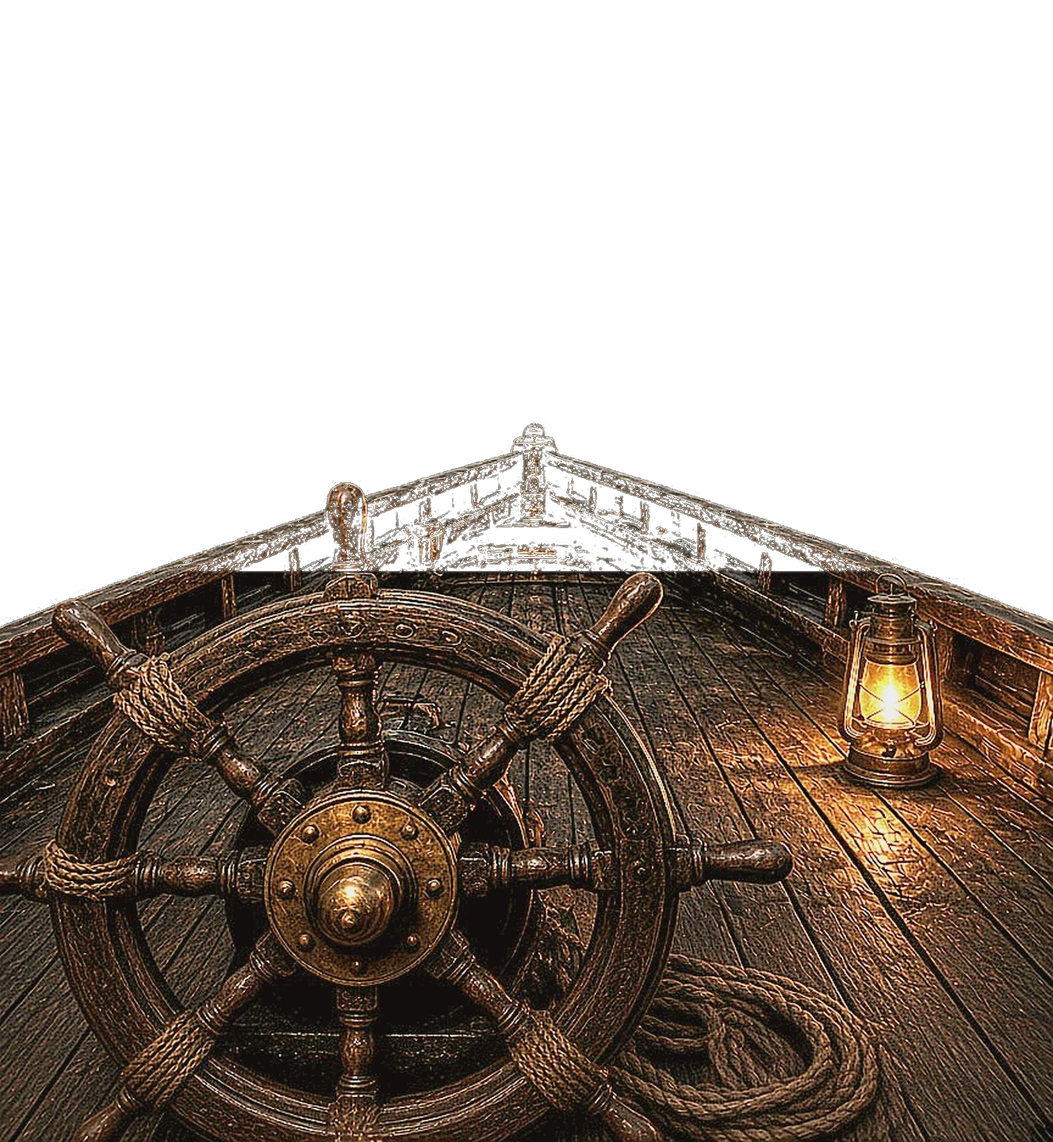
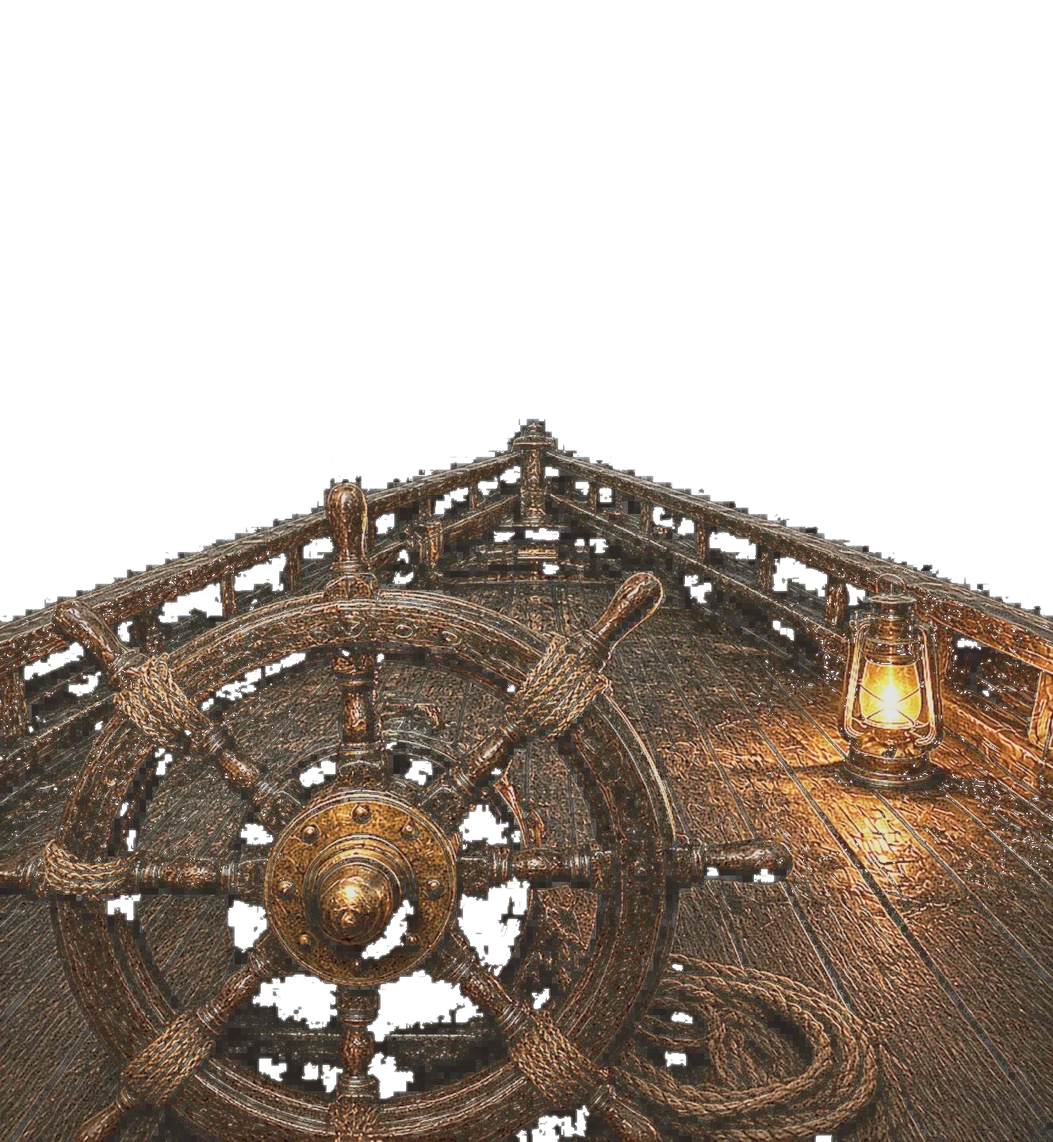
Ship: restore night sea past bow; film timber pass
Root cause: deck plate kept opaque near-black over the ocean band
(and clear void sat above the horizon), so scene.js water looked like
a black cutout. Flood-clear sea void into ocean latitudes, kill black
fringe, lift night-sea readability + moon trail, nudge plate sit so
water shows past the bow. Cache-bust scene/ship ?v=water8.

Changed region(s): [[0.0, 0.3438, 1.0, 1.0]]

diff --git a/projects.html b/projects.html
@@ -13,5 +13,5 @@
 <div class="grid"><article class="proj glass feat" data-cat="Education"><a class="shot" href="https://inteloasis.com" target="_blank" rel="noopener" tabindex="-1"><img src="assets/shots/inteloasis.webp" alt="Screenshot of IntelOasis" loading="lazy" width="720" height="450"></a><div class="pb"><div class="ph2"><h3>IntelOasis</h3><span class="tag">Education</span></div><p><strong>Every problem has a thousand solutions. IntelOasis is where Charles keeps them.</strong> It is a living library of ideas, books, software, clubs, and traditions, and it is the roof over everything else here. <strong>It holds the vision. The products below put it into practice.</strong></p><ul class="stack"><li>React</li><li>Vite</li><li>Tailwind</li></ul><div class="links"><a class="btn" href="https://inteloasis.com" target="_blank" rel="noopener">Visit ↗</a><a class="btn ghost" href="https://github.com/charlesanthonyleone/intel-oasis" target="_blank" rel="noopener">GitHub ↗</a></div></div></article><article class="proj glass feat" data-cat="Games"><a class="shot" href="https://scavengia.com" target="_blank" rel="noopener" tabindex="-1"><img src="assets/shots/scavengia.webp" alt="Screenshot of Scavengia" loading="lazy" width="720" height="450"></a><div class="pb"><div class="ph2"><h3>Scavengia</h3><span class="tag">Games</span></div><p><strong>Scavengia is an AI-powered index of everything, and people build it by exploring the world.</strong> Players go out, open caches, and pay to explore. Each discovery adds real places, objects, images, lore, and rarity to a shared map of the planet. <strong>When everything has been found, the AI keeps digging.</strong> It surfaces the precedent: the history and the earlier finds behind each place. <strong>It connects people on opposite sides of the world</strong> through the same hunt. <strong>Ride-alongs fix two problems at once.</strong> Someone who is driving and can&#x27;t play takes along someone who can play but can&#x27;t move. The driver moves the game forward and the remote player gets to explore. <strong>Nobody is left out of the hunt.</strong></p><ul class="stack"><li>TypeScript</li><li>Capacitor Android</li></ul><div class="links"><a class="btn" href="https://scavengia.com" target="_blank" rel="noopener">Visit ↗</a></div></div></article><article class="proj glass feat" data-cat="Civic"><a class="shot" href="https://recordoflaw.com" target="_blank" rel="noopener" tabindex="-1"><img src="assets/shots/recordoflaw.webp" alt="Screenshot of RecordOfLaw" loading="lazy" width="720" height="450"></a><div class="pb"><div class="ph2"><h3>RecordOfLaw</h3><span class="tag">Civic/Politics</span></div><p><strong>Who made the law, when, and how.</strong> RecordOfLaw records offices, officeholders, and legal changes. <strong>Every entry is dated, sourced, and cross-linked.</strong> It starts with FDR and the New Deal, and the build checks its data before it compiles. <strong>The 2026 Midterm Tracker is live.</strong></p><ul class="stack"><li>Python pipeline</li><li>Vite + TS</li></ul><div class="links"><a class="btn" href="https://recordoflaw.com" target="_blank" rel="noopener">Visit ↗</a><a class="btn ghost" href="https://recordoflaw.com/midterms/" target="_blank" rel="noopener">2026 Midterm Tracker ↗</a></div></div></article><article class="proj glass" data-cat="Education"><a class="shot" href="https://leoneuniversity.org" target="_blank" rel="noopener" tabindex="-1"><img src="assets/shots/leone-university.webp" alt="Screenshot of Leone University" loading="lazy" width="720" height="450"></a><div class="pb"><div class="ph2"><h3>Leone University</h3><span class="tag">Education</span></div><p><strong>A think tank where ideas are kept as records.</strong> It started as a prototype on the Base44 AI app builder. <strong>Charles rebuilt it as a standalone React app</strong> that deploys automatically through GitHub Actions.</p><ul class="stack"><li>Vite</li><li>React</li></ul><div class="links"><a class="btn" href="https://leoneuniversity.org" target="_blank" rel="noopener">Visit ↗</a><a class="btn ghost" href="https://github.com/charlesanthonyleone/leone-university" target="_blank" rel="noopener">GitHub ↗</a></div></div></article><article class="proj glass" data-cat="Education"><a class="shot" href="https://library.leoneuniversity.org" target="_blank" rel="noopener" tabindex="-1"><img src="assets/shots/leone-library.webp" alt="Screenshot of Leone Library" loading="lazy" width="720" height="450"></a><div class="pb"><div class="ph2"><h3>Leone Library</h3><span class="tag">Education</span></div><p><strong>Read, translate, remix, and publish the public-domain classics.</strong> Its catalogue is fed by ingestion pipelines from Project Gutenberg and LibriVox. <strong>It&#x27;s a free library meant to be built on.</strong></p><ul class="stack"><li>TypeScript</li></ul><div class="links"><a class="btn" href="https://library.leoneuniversity.org" target="_blank" rel="noopener">Visit ↗</a><a class="btn ghost" href="https://github.com/charlesanthonyleone/leonelibrary" target="_blank" rel="noopener">GitHub ↗</a></div></div></article><article class="proj glass" data-cat="Community"><a class="shot" href="https://charlesanthonyleone.github.io/leoneguard-stats/" target="_blank" rel="noopener" tabindex="-1"><img src="assets/shots/leoneguard-stats.webp" alt="Screenshot of LeoneGuard" loading="lazy" width="720" height="450"></a><div class="pb"><div class="ph2"><h3>LeoneGuard</h3><span class="tag">Community</span></div><p><strong>Moderation that can tell venting from attacking.</strong> At its core is DramaScreen, a low-cost harassment detector that ignores banter and acts on targeted personal attacks. <strong>The public stats page shows only totals, with no names and no messages.</strong></p><ul class="stack"><li>TypeScript</li><li>Docker</li><li>Postgres</li><li>Redis</li><li>Local LLM</li></ul><div class="links"><a class="btn" href="https://charlesanthonyleone.github.io/leoneguard-stats/" target="_blank" rel="noopener">Visit ↗</a><a class="btn ghost" href="https://charlesanthonyleone.github.io/leoneguard-stats/" target="_blank" rel="noopener">Public stats ↗</a></div></div></article><article class="proj glass" data-cat="Community"><a class="shot" href="https://xatmarket.com" target="_blank" rel="noopener" tabindex="-1"><img src="assets/shots/xatmarket.webp" alt="Screenshot of XatMarket" loading="lazy" width="720" height="450"></a><div class="pb"><div class="ph2"><h3>XatMarket</h3><span class="tag">Community</span></div><p><strong>Services, staff, and ideas for xat communities.</strong> XatMarket is the home base for the xat chat community, and <strong>WarMap and XatCast launch from it.</strong></p><ul class="stack"><li>JavaScript</li></ul><div class="links"><a class="btn" href="https://xatmarket.com" target="_blank" rel="noopener">Visit ↗</a></div></div></article><article class="proj glass" data-cat="Community"><a class="shot" href="https://tv.xatmarket.com" target="_blank" rel="noopener" tabindex="-1"><img src="assets/shots/xatcast.webp" alt="Screenshot of XatCast" loading="lazy" width="720" height="450"></a><div class="pb"><div class="ph2"><h3>XatCast</h3><span class="tag">Community</span></div><p><strong>A broadcast network that airs only work the public is free to use.</strong> It runs always-on stations (XatArt, XatWar, XatSports, XatMusic) fed from the Met, the Art Institute of Chicago, Wikimedia Commons, and the Internet Archive. <strong>The license and attribution are recorded for every item.</strong> A shared broadcast clock means <strong>every viewer sees the same thing at the same second.</strong></p><ul class="stack"><li>TypeScript</li><li>Live</li></ul><div class="links"><a class="btn" href="https://tv.xatmarket.com" target="_blank" rel="noopener">Visit ↗</a></div></div></article><article class="proj glass" data-cat="Civic"><a class="shot" href="https://maps.xatmarket.com" target="_blank" rel="noopener" tabindex="-1"><img src="assets/shots/xatmaps.webp" alt="Screenshot of XatMaps · WarMap" loading="lazy" width="720" height="450"></a><div class="pb"><div class="ph2"><h3>XatMaps · WarMap</h3><span class="tag">Civic/Politics</span></div><p><strong>A live 3D night globe of world conflict. Free, open source, with no accounts, no paywall, and no tracking.</strong> It combines UCDP, GDELT (labeled &quot;auto-coded, unverified&quot;), NASA FIRMS heat detections, and Wikipedia control maps. <strong>Every event shows its source and a confidence label.</strong> It also has a daily brief, RSS feeds, and an embed mode.</p><ul class="stack"><li>3D globe</li><li>Open data</li></ul><div class="links"><a class="btn" href="https://maps.xatmarket.com" target="_blank" rel="noopener">Visit ↗</a></div></div></article><article class="proj glass" data-cat="Games"><a class="shot" href="https://blesshalo.com" target="_blank" rel="noopener" tabindex="-1"><img src="assets/shots/blesshalo.webp" alt="Screenshot of BlessHalo" loading="lazy" width="720" height="450"></a><div class="pb"><div class="ph2"><h3>BlessHalo</h3><span class="tag">Games</span></div><p><strong>UNSC : Bless is a private military Halo company, run like a real organization.</strong> It has houses, a charter, insignia, roles and medals, a Pro-Am series, mentorship, a Cadet Track, and a field manual. <strong>It&#x27;s a structure for leading a community.</strong></p><ul class="stack"></ul><div class="links"><a class="btn" href="https://blesshalo.com" target="_blank" rel="noopener">Visit ↗</a></div></div></article><article class="proj glass" data-cat="Games"><div class="shot ph"><span>Private · no public page</span></div><div class="pb"><div class="ph2"><h3>WoW AzerothCore server + xat in-game UI</h3><span class="tag">Games</span></div><p>A World of Warcraft 3.3.5 private server on AzerothCore, with a custom FrameXML Lua UI and native DLL proxy hooks (d3d9, dinput8, MinHook) that bring xat chat into the game client. The server also runs a local Qwen2.5-3B model. In progress.</p><ul class="stack"><li>C/C++</li><li>Lua</li><li>MySQL</li><li>Local LLM</li></ul><div class="links"></div></div></article><article class="proj glass" data-cat="Community"><a class="shot" href="https://lowdro.com" target="_blank" rel="noopener" tabindex="-1"><img src="assets/shots/lowdro.webp" alt="Screenshot of LowDro" loading="lazy" width="720" height="450"></a><div class="pb"><div class="ph2"><h3>LowDro</h3><span class="tag">Community</span></div><p><strong>A members-only, age-gated (21+) storefront for hemp-derived products, plus the security tool that protects it.</strong> Charles built lowdro-ir alongside the store. It is an incident-response analyzer that reads Supabase, Cloudflare, and Nginx logs and flags brute-force attempts, table enumeration, and misuse of privileged keys. <strong>He secures what he ships.</strong></p><ul class="stack"><li>Vite SPA</li><li>21+ age-gated</li></ul><div class="links"><a class="btn" href="https://lowdro.com" target="_blank" rel="noopener">Visit ↗</a></div></div></article><article class="proj glass" data-cat="Tools/AI"><a class="shot" href="https://charlesanthonyleone.github.io/tapback/" target="_blank" rel="noopener" tabindex="-1"><img src="assets/shots/tapback.webp" alt="Screenshot of Tapback" loading="lazy" width="720" height="450"></a><div class="pb"><div class="ph2"><h3>Tapback</h3><span class="tag">Tools/AI</span></div><p>“Your tap gets a comeback.” A sharp marketing site for a product idea — static multi-page, Python-built, shipped to GitHub Pages.</p><ul class="stack"><li>Static</li><li>Python build</li></ul><div class="links"><a class="btn" href="https://charlesanthonyleone.github.io/tapback/" target="_blank" rel="noopener">Visit ↗</a></div></div></article><article class="proj glass" data-cat="Tools/AI"><a class="shot" href="https://charlesanthonyleone.github.io/remote-robotics/" target="_blank" rel="noopener" tabindex="-1"><img src="assets/shots/remote-robotics.webp" alt="Screenshot of Remote Robotics" loading="lazy" width="720" height="450"></a><div class="pb"><div class="ph2"><h3>Remote Robotics</h3><span class="tag">Tools/AI</span></div><p>Concept site for human-supervised robotics R&amp;D — framing the problem of keeping a person in the loop when machines act at a distance.</p><ul class="stack"><li>Static</li></ul><div class="links"><a class="btn" href="https://charlesanthonyleone.github.io/remote-robotics/" target="_blank" rel="noopener">Visit ↗</a></div></div></article></div></section><footer class="foot"><p>© 2026 Charles Leone · <a href="https://github.com/charlesanthonyleone">github.com/charlesanthonyleone</a></p><p class="credit">Milky Way: <a href="https://www.eso.org/public/images/eso0932a/" rel="noopener">ESO/S. Brunier</a>, CC BY 4.0 · Moon: <a href="https://commons.wikimedia.org/wiki/File:FullMoon2010.jpg" rel="noopener">Gregory H. Revera</a>, CC BY-SA 3.0 · Ship: coherent photoreal helm plate + scene sky/ocean</p></footer></main>
 <div class="scene-set"><div id="scene-panel" class="scene-panel glass" role="dialog" aria-label="Scene settings" hidden><label><input type="checkbox" id="set-ocean"> Ocean animation</label><label><input type="checkbox" id="set-sky"> Star &amp; sky animation</label><label><input type="checkbox" id="set-rock"> Ship rocking &amp; lantern</label><p>Off shows a still frame. Defaults follow your system's reduced-motion setting.</p></div>
 <button id="gear" class="scene-gear glass" aria-expanded="false" aria-label="Scene settings" title="Scene settings"><svg viewBox="0 0 24 24" width="18" height="18" aria-hidden="true"><path fill="currentColor" d="M19.4 13a7.5 7.5 0 0 0 0-2l2-1.6-2-3.4-2.4 1a7 7 0 0 0-1.7-1L15 3.5h-4l-.4 2.5a7 7 0 0 0-1.7 1l-2.4-1-2 3.4L6.6 11a7.5 7.5 0 0 0 0 2l-2 1.6 2 3.4 2.4-1a7 7 0 0 0 1.7 1l.4 2.5h4l.4-2.5a7 7 0 0 0 1.7-1l2.4 1 2-3.4zM13 15.5a3.5 3.5 0 1 1 0-7 3.5 3.5 0 0 1 0 7z" transform="translate(-1 0)"/></svg></button></div>
-<script src="assets/scene.js" defer></script><script src="assets/ship.js?v=water1" defer></script><script src="assets/pages.js" defer></script>
+<script src="assets/scene.js?v=water8" defer></script><script src="assets/ship.js?v=water8" defer></script><script src="assets/pages.js" defer></script>
 </body></html>

diff --git a/index.html b/index.html
@@ -13,5 +13,5 @@
 <section class="doors"><a class="door glass" href="story.html"><span class="eyebrow">The log</span><b>My Story</b><span>In my own words — 12 min read</span></a><a class="door glass" href="projects.html"><span class="eyebrow">The work</span><b>Projects</b><span>14 things built and live</span></a></section><section class="featured"><div class="sec-h"><h2 class="sh">Flagship</h2><a class="hint" href="projects.html">All 14 projects →</a></div><div class="grid"><article class="proj glass feat" data-cat="Education"><a class="shot" href="https://inteloasis.com" target="_blank" rel="noopener" tabindex="-1"><img src="assets/shots/inteloasis.webp" alt="Screenshot of IntelOasis" loading="lazy" width="720" height="450"></a><div class="pb"><div class="ph2"><h3>IntelOasis</h3><span class="tag">Education</span></div><p><strong>Every problem has a thousand solutions. IntelOasis is where Charles keeps them.</strong> It is a living library of ideas, books, software, clubs, and traditions, and it is the roof over everything else here. <strong>It holds the vision. The products below put it into practice.</strong></p><ul class="stack"><li>React</li><li>Vite</li><li>Tailwind</li></ul><div class="links"><a class="btn" href="https://inteloasis.com" target="_blank" rel="noopener">Visit ↗</a><a class="btn ghost" href="https://github.com/charlesanthonyleone/intel-oasis" target="_blank" rel="noopener">GitHub ↗</a></div></div></article><article class="proj glass feat" data-cat="Games"><a class="shot" href="https://scavengia.com" target="_blank" rel="noopener" tabindex="-1"><img src="assets/shots/scavengia.webp" alt="Screenshot of Scavengia" loading="lazy" width="720" height="450"></a><div class="pb"><div class="ph2"><h3>Scavengia</h3><span class="tag">Games</span></div><p><strong>Scavengia is an AI-powered index of everything, and people build it by exploring the world.</strong> Players go out, open caches, and pay to explore. Each discovery adds real places, objects, images, lore, and rarity to a shared map of the planet. <strong>When everything has been found, the AI keeps digging.</strong> It surfaces the precedent: the history and the earlier finds behind each place. <strong>It connects people on opposite sides of the world</strong> through the same hunt. <strong>Ride-alongs fix two problems at once.</strong> Someone who is driving and can&#x27;t play takes along someone who can play but can&#x27;t move. The driver moves the game forward and the remote player gets to explore. <strong>Nobody is left out of the hunt.</strong></p><ul class="stack"><li>TypeScript</li><li>Capacitor Android</li></ul><div class="links"><a class="btn" href="https://scavengia.com" target="_blank" rel="noopener">Visit ↗</a></div></div></article><article class="proj glass feat" data-cat="Civic"><a class="shot" href="https://recordoflaw.com" target="_blank" rel="noopener" tabindex="-1"><img src="assets/shots/recordoflaw.webp" alt="Screenshot of RecordOfLaw" loading="lazy" width="720" height="450"></a><div class="pb"><div class="ph2"><h3>RecordOfLaw</h3><span class="tag">Civic/Politics</span></div><p><strong>Who made the law, when, and how.</strong> RecordOfLaw records offices, officeholders, and legal changes. <strong>Every entry is dated, sourced, and cross-linked.</strong> It starts with FDR and the New Deal, and the build checks its data before it compiles. <strong>The 2026 Midterm Tracker is live.</strong></p><ul class="stack"><li>Python pipeline</li><li>Vite + TS</li></ul><div class="links"><a class="btn" href="https://recordoflaw.com" target="_blank" rel="noopener">Visit ↗</a><a class="btn ghost" href="https://recordoflaw.com/midterms/" target="_blank" rel="noopener">2026 Midterm Tracker ↗</a></div></div></article></div></section><footer class="foot"><p>© 2026 Charles Leone · <a href="https://github.com/charlesanthonyleone">github.com/charlesanthonyleone</a></p><p class="credit">Milky Way: <a href="https://www.eso.org/public/images/eso0932a/" rel="noopener">ESO/S. Brunier</a>, CC BY 4.0 · Moon: <a href="https://commons.wikimedia.org/wiki/File:FullMoon2010.jpg" rel="noopener">Gregory H. Revera</a>, CC BY-SA 3.0 · Ship: coherent photoreal helm plate + scene sky/ocean</p></footer></main>
 <div class="scene-set"><div id="scene-panel" class="scene-panel glass" role="dialog" aria-label="Scene settings" hidden><label><input type="checkbox" id="set-ocean"> Ocean animation</label><label><input type="checkbox" id="set-sky"> Star &amp; sky animation</label><label><input type="checkbox" id="set-rock"> Ship rocking &amp; lantern</label><p>Off shows a still frame. Defaults follow your system's reduced-motion setting.</p></div>
 <button id="gear" class="scene-gear glass" aria-expanded="false" aria-label="Scene settings" title="Scene settings"><svg viewBox="0 0 24 24" width="18" height="18" aria-hidden="true"><path fill="currentColor" d="M19.4 13a7.5 7.5 0 0 0 0-2l2-1.6-2-3.4-2.4 1a7 7 0 0 0-1.7-1L15 3.5h-4l-.4 2.5a7 7 0 0 0-1.7 1l-2.4-1-2 3.4L6.6 11a7.5 7.5 0 0 0 0 2l-2 1.6 2 3.4 2.4-1a7 7 0 0 0 1.7 1l.4 2.5h4l.4-2.5a7 7 0 0 0 1.7-1l2.4 1 2-3.4zM13 15.5a3.5 3.5 0 1 1 0-7 3.5 3.5 0 0 1 0 7z" transform="translate(-1 0)"/></svg></button></div>
-<script src="assets/scene.js" defer></script><script src="assets/ship.js?v=water1" defer></script><script src="assets/pages.js" defer></script>
+<script src="assets/scene.js?v=water8" defer></script><script src="assets/ship.js?v=water8" defer></script><script src="assets/pages.js" defer></script>
 </body></html>

diff --git a/assets/scene.js b/assets/scene.js
@@ -104,24 +104,24 @@ void main(){
     vec3 r = reflect(rd, n); r.y = abs(r.y) + .001;
     float fres = clamp(.02 + .98*pow(1. - max(dot(n, -rd), 0.), 5.), 0., 1.);
     vec3 refl = sky(r, true) * 1.3;
-    vec3 deep = vec3(.0006,.003,.007);
-    vec3 sss = vec3(.010,.040,.055) * pow(max(p.y + 1.5, 0.)*.28, 2.) * max(dot(n, MOON*vec3(1,0,1)) + .3, 0.);
+    vec3 deep = vec3(.004,.022,.048);
+    vec3 sss = vec3(.028,.070,.095) * pow(max(p.y + 1.5, 0.)*.28, 2.) * max(dot(n, MOON*vec3(1,0,1)) + .3, 0.);
     col = mix(deep + sss, refl, fres*.8);
     float sp = max(dot(r, MOON), 0.);
     // moonlit glitter path: a column straight down from the moon on screen, widening slightly toward the viewer,
     // lit only where wave facets tilt the reflection toward the moon (so it shimmers instead of being a flat stripe)
-    float cx = rd.x/rd.z - MOON.x/MOON.z, wdt = .035 + (-rd.y)*.10;
+    float cx = rd.x/rd.z - MOON.x/MOON.z, wdt = .062 + (-rd.y)*.14;
     float column = exp(-cx*cx/(wdt*wdt));
-    col += vec3(.92,.95,1.) * (pow(sp, 2400.)*1.5*column + column*(pow(sp, 14.)*1.1 + pow(sp, 120.)*.9 + .012)) * (.6 + .4*fres*6.);
+    col += vec3(.92,.95,1.) * (pow(sp, 1800.)*2.0*column + column*(pow(sp, 10.)*1.4 + pow(sp, 80.)*1.2 + .045)) * (.85 + .35*fres*6.);
     // starlight glinting off facets: reflected stars break into sparkles
     vec3 rs = rotX(.62) * rotY(TS*.004) * rotX(-.62) * r;
     float gl = starfield(rs, 140., .955) * fres * 6. * exp(-dist*.004);
     col += vec3(.75,.82,1.) * gl * .5;
     float fog = 1. - exp(-dist*.0016);
-    col = mix(col, vec3(.006,.014,.012), fog*.92);
+    col = mix(col, vec3(.016,.040,.055), fog*.85);
   }
   col = mix(col, vec3(.010,.022,.016), mist*.55);
-  col *= 1. - .32*dot(uv*.85, uv*.85); // vignette
+  col *= 1. - .18*dot(uv*.85, uv*.85); // vignette
   col = col / (1. + col*.5);
   col = pow(col, vec3(.4545));
   col += (h21(gl_FragCoord.xy + fract(T)*100.) - .5) / 220.; // dither: no banding in the dark gradients

diff --git a/story.html b/story.html
@@ -38,5 +38,5 @@ November 5, 2026</pre>
 </section></div><footer class="foot"><p>© 2026 Charles Leone · <a href="https://github.com/charlesanthonyleone">github.com/charlesanthonyleone</a></p><p class="credit">Milky Way: <a href="https://www.eso.org/public/images/eso0932a/" rel="noopener">ESO/S. Brunier</a>, CC BY 4.0 · Moon: <a href="https://commons.wikimedia.org/wiki/File:FullMoon2010.jpg" rel="noopener">Gregory H. Revera</a>, CC BY-SA 3.0 · Ship: coherent photoreal helm plate + scene sky/ocean</p></footer></main>
 <div class="scene-set"><div id="scene-panel" class="scene-panel glass" role="dialog" aria-label="Scene settings" hidden><label><input type="checkbox" id="set-ocean"> Ocean animation</label><label><input type="checkbox" id="set-sky"> Star &amp; sky animation</label><label><input type="checkbox" id="set-rock"> Ship rocking &amp; lantern</label><p>Off shows a still frame. Defaults follow your system's reduced-motion setting.</p></div>
 <button id="gear" class="scene-gear glass" aria-expanded="false" aria-label="Scene settings" title="Scene settings"><svg viewBox="0 0 24 24" width="18" height="18" aria-hidden="true"><path fill="currentColor" d="M19.4 13a7.5 7.5 0 0 0 0-2l2-1.6-2-3.4-2.4 1a7 7 0 0 0-1.7-1L15 3.5h-4l-.4 2.5a7 7 0 0 0-1.7 1l-2.4-1-2 3.4L6.6 11a7.5 7.5 0 0 0 0 2l-2 1.6 2 3.4 2.4-1a7 7 0 0 0 1.7 1l.4 2.5h4l.4-2.5a7 7 0 0 0 1.7-1l2.4 1 2-3.4zM13 15.5a3.5 3.5 0 1 1 0-7 3.5 3.5 0 0 1 0 7z" transform="translate(-1 0)"/></svg></button></div>
-<script src="assets/scene.js" defer></script><script src="assets/ship.js?v=water1" defer></script><script src="assets/pages.js" defer></script>
+<script src="assets/scene.js?v=water8" defer></script><script src="assets/ship.js?v=water8" defer></script><script src="assets/pages.js" defer></script>
 </body></html>

diff --git a/assets/ship.js b/assets/ship.js
@@ -1,4 +1,4 @@
-/* Coherent photoreal helm plate over scene.js sky/ocean + flame flicker. water1: clear sea void alpha */
+/* Coherent photoreal helm plate over scene.js sky/ocean + flame flicker. water8: sea void flood-clear into ocean band + film timber */
 (()=>{
   const K='pf-rock', rm=matchMedia('(prefers-reduced-motion: reduce)').matches;
   let on=(()=>{try{const v=localStorage.getItem(K);return v===null?!rm:v==='1'}catch{return!rm}})();
@@ -55,8 +55,8 @@ gl_FragColor=vec4(col,max(a,halo));}`));
   }
 
   const CFG={
-    d:{src:'assets/sky/deck.webp',W:2560,H:1800,hx:.748,hy:.552,lh:.065,px:.72,py:.70,ax:.5,dy:.20},
-    m:{src:'assets/sky/deck-m.webp',W:1328,H:1440,hx:.805,hy:.542,lh:.07,px:.76,py:.76,ax:.5,dy:.22}
+    d:{src:'assets/sky/deck.webp',W:2560,H:1800,hx:.748,hy:.552,lh:.065,px:.72,py:.70,ax:.5,dy:0.34,scale:0.96},
+    m:{src:'assets/sky/deck-m.webp',W:1328,H:1440,hx:.805,hy:.542,lh:.07,px:.76,py:.76,ax:.5,dy:0.42,scale:0.88}
   };
   let c,iw,ih,lw,lhh,DPR=Math.min(devicePixelRatio||1,2);
 
@@ -66,7 +66,7 @@ gl_FragColor=vec4(col,max(a,halo));}`));
     const want = c.src;
     // Always set via attribute so empty-src → documentURL doesn't confuse us
     if(deck.getAttribute('src')!==want) deck.setAttribute('src', want);
-    const s=Math.max(w/c.W, h/(c.H*0.62))*1.14;
+    const s=Math.max(w/c.W, h/(c.H*0.62))*(c.scale||1);
     iw=c.W*s; ih=c.H*s;
     const x=(w-iw)*c.ax, y=h-ih+ih*c.dy;
     ship.style.cssText = `position:fixed;z-index:2;pointer-events:none;transform-origin:50% 100%;width:${iw}px;height:${ih}px;left:${x}px;top:${y}px;`;

diff --git a/src/build.py b/src/build.py
@@ -18,7 +18,7 @@ def page(fn,title,cls,body,extra=''):
 <nav class="nav glass"><a href="index.html" class="brand">Charles Leone</a><span>{nav}</span></nav>
 <main class="wrap">{body}{foot}</main>
 {gear}
-<script src="assets/scene.js" defer></script><script src="assets/ship.js?v=water1" defer></script><script src="assets/pages.js" defer></script>
+<script src="assets/scene.js?v=water8" defer></script><script src="assets/ship.js?v=water8" defer></script><script src="assets/pages.js" defer></script>
 </body></html>''')
 feat='<section class="featured"><div class="sec-h"><h2 class="sh">Flagship</h2><a class="hint" href="projects.html">All 14 projects →</a></div><div class="grid">'+''.join(arts[:3])+'</div></section>'
 links='<section class="doors"><a class="door glass" href="story.html"><span class="eyebrow">The log</span><b>My Story</b><span>In my own words — 12 min read</span></a><a class="door glass" href="projects.html"><span class="eyebrow">The work</span><b>Projects</b><span>14 things built and live</span></a></section>'
